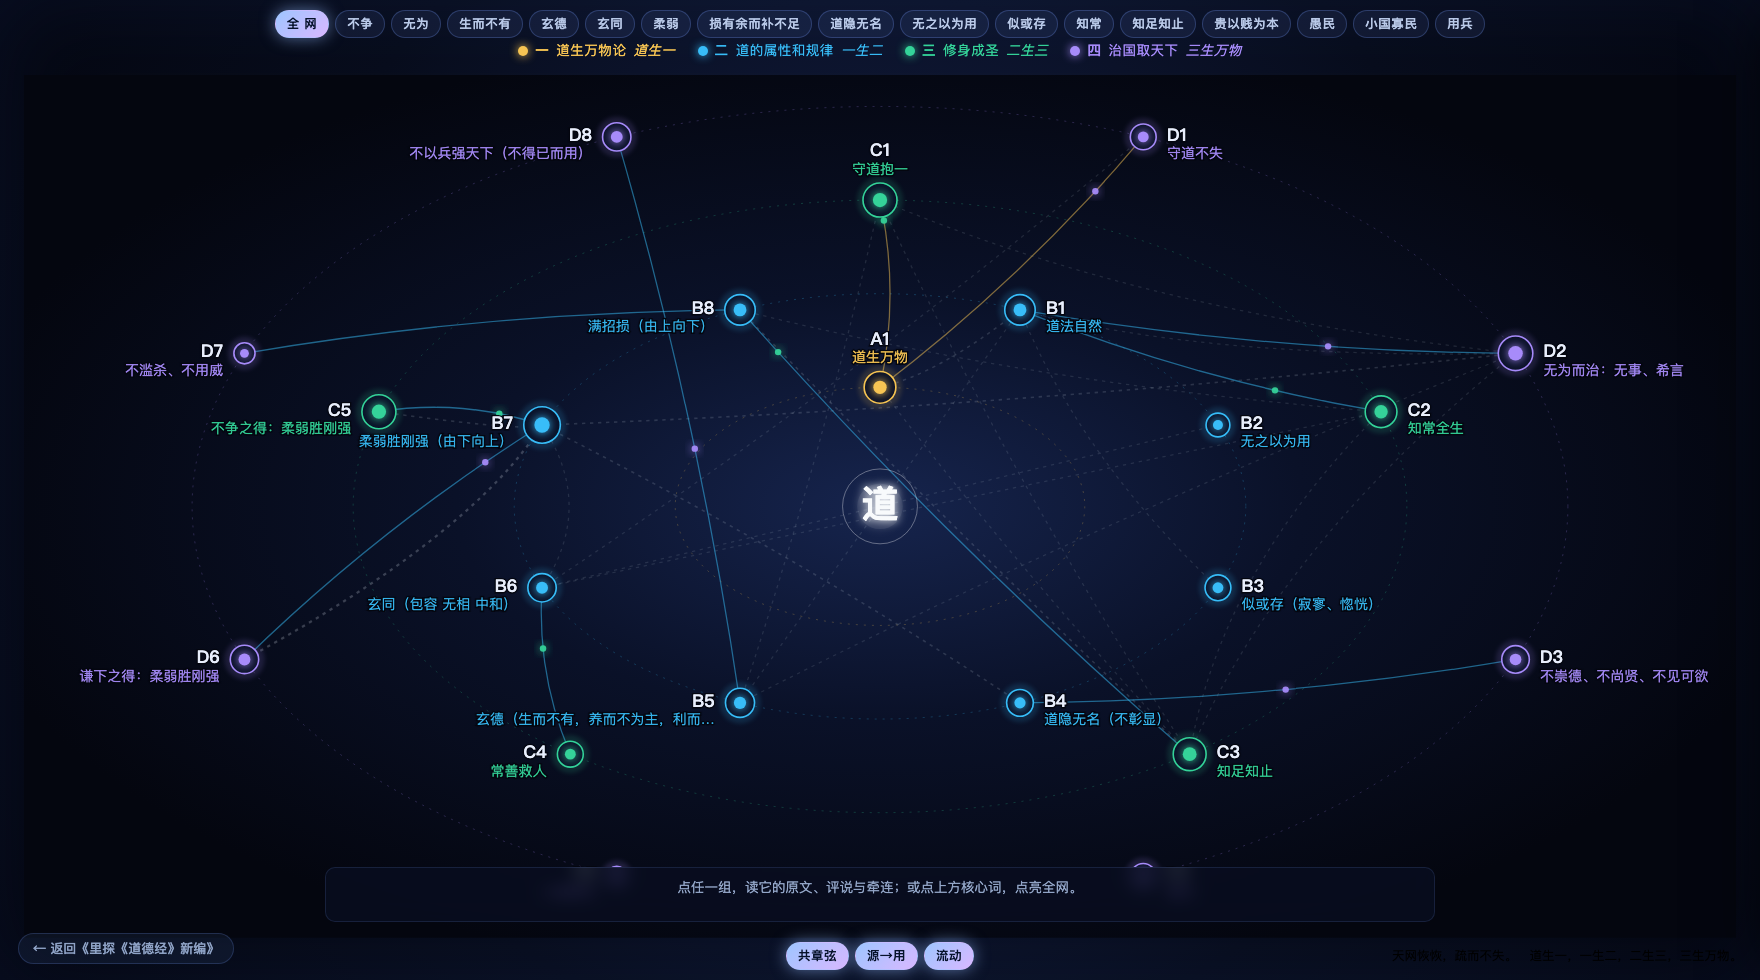
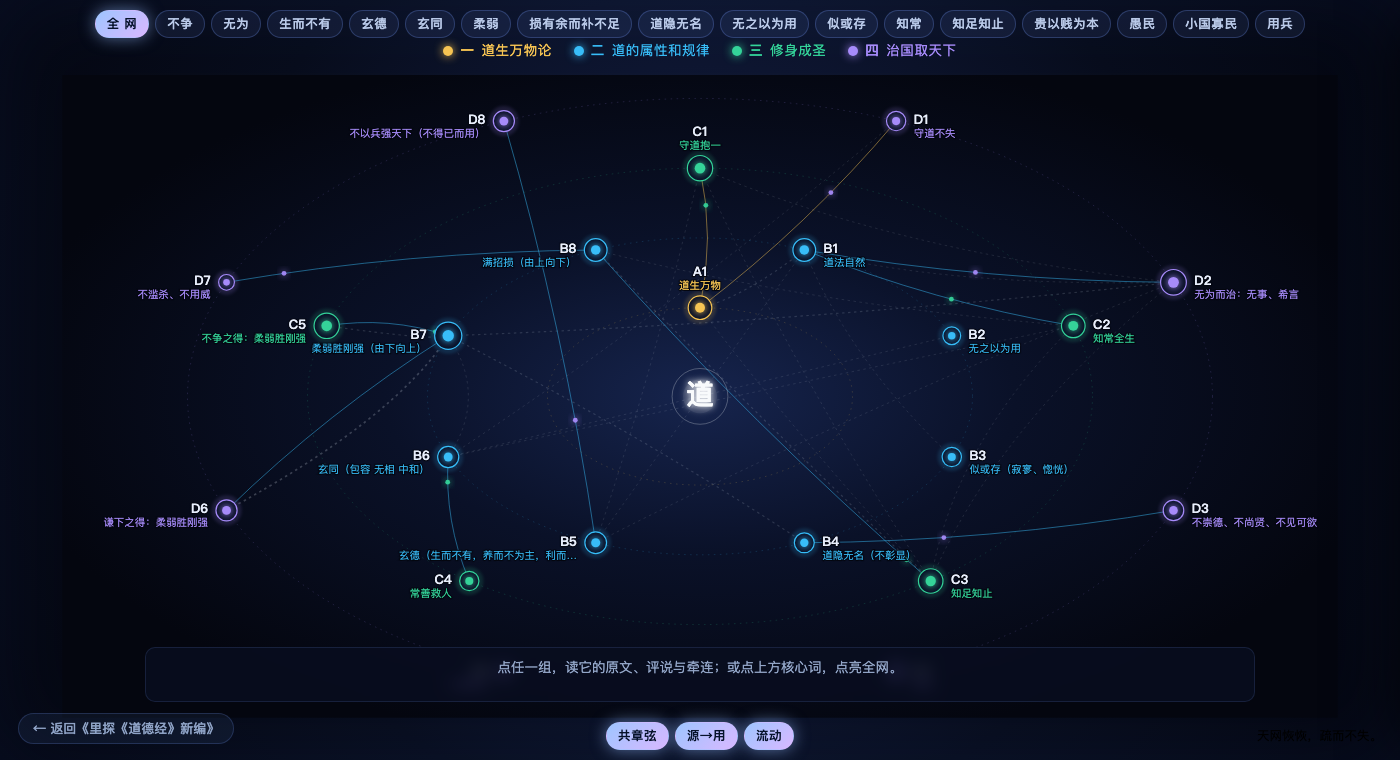
天道大网：修图例假等式、章号链接、加阅读页入口；修封面链接
① 图例去掉「道生一／一生二／二生三／三生万物」
- 该句讲生成序列（道→有无未分→有无既分→有无相和→万物），
  并非四部的编号；挂在环上是假等式，会误导为「一部=一、二部=二」
- 页面题引同步简化为「天网恢恢，疏而不失」

② 章号与新编链接改为 docsify 路由
- 02.md → index.html#/02
- 00.md → index.html#/00（含读取失败的兜底链接）
- 原因：wang.html 在 docsify 之外，点 .md 只会下到纯文本

③ index.html 新增「天道大网」悬浮入口
- 固定右上角，发光圆点呼应图心之「道」，悬停亮起
- 所有 docsify 页面（含封面）可见

④ 封面「天网恢恢」链接修正（用户手加，路径有误）
- /wang.html → wang.html（相对路径）
- 绝对路径在 GitHub Pages 子目录下会解析到站点根，导致 404
- 改用原生 <a target="_self">，避开 docsify 路由对 .html 的拦截

验证（headless 实渲染）
- C3 抽屉内章号链接实际 href = index.html#/24
- 封面链接渲染为 <a href="wang.html" target="_self">

diff --git a/_script/tiandao-net.js b/_script/tiandao-net.js
@@ -45,7 +45,7 @@
   }
   function verseHTML(line) {
     return esc(line).replace(/（([一二三四五六七八九十]+)）/g, function (m, cn) {
-      return '<a class="tdn-ch" href="' + pad(cn2num(cn)) + '.md" title="第' + cn + '章 · 原文注释评说">' + m + '</a>';
+      return '<a class="tdn-ch" href="index.html#/' + pad(cn2num(cn)) + '" title="第' + cn + '章 · 原文注释评说">' + m + '</a>';
     });
   }
 
@@ -228,7 +228,7 @@
         '<span class="tdn-badge" style="--c:' + c + '">' + n.dept + '部　' + SHORT[n.dept] + '</span>' +
         '<h3>' + esc(id) + '　' + esc(n.name) + '</h3>' +
         '<p class="tdn-meta">收录 <b>' + n.chs.length + '</b> 章 · <b>' + n.n + '</b> 句　' +
-        n.chs.map(function (x) { return '<a class="tdn-ch" href="' + pad(x) + '.md">' + pad(x) + '</a>'; })
+        n.chs.map(function (x) { return '<a class="tdn-ch" href="index.html#/' + pad(x) + '">' + pad(x) + '</a>'; })
           .join('<span class="tdn-sep">·</span>') + '</p>';
       body.innerHTML = '<p class="tdn-loading">正在读取原文…</p>';
       drawer.classList.add('open');
@@ -273,12 +273,12 @@
           });
           flush();
         } else {
-          vh = '<p class="tdn-none">未能读取 00.md，请直接看 <a href="00.md">新编</a>。</p>';
+          vh = '<p class="tdn-none">未能读取原文，请直接看 <a href="index.html#/00">新编</a>。</p>';
         }
         body.innerHTML =
           '<h4>原文 · 评说</h4>' + vh +
           relHTML +
-          '<a class="tdn-goto" href="00.md">在《里探《道德经》新编》中阅读 →</a>';
+          '<a class="tdn-goto" href="index.html#/00">在《里探《道德经》新编》中阅读 →</a>';
         Array.prototype.forEach.call(body.querySelectorAll('.tdn-jump'), function (b) {
           b.onclick = function () { open(b.getAttribute('data-id')); };
         });
@@ -341,7 +341,7 @@
     var legend = document.createElement('div');
     legend.className = 'tdn-legend';
     legend.innerHTML = ['一', '二', '三', '四'].map(function (d) {
-      return '<span style="--c:' + COLOR[d] + '"><b>' + d + '</b>' + SHORT[d] + '<i>' + SEQ[d] + '</i></span>';
+      return '<span style="--c:' + COLOR[d] + '"><b>' + d + '</b>' + SHORT[d] + '</span>';
     }).join('');
     host.insertBefore(bar, ctx.stage);
     host.insertBefore(legend, ctx.stage);

diff --git a/index.html b/index.html
@@ -9,10 +9,36 @@
   <meta name="viewport" content="width=device-width, initial-scale=1.0, minimum-scale=1.0">
   <link rel="icon" href="_media/favicon.jpg">
   <link rel="stylesheet" href="_style/docsify@5.min.css">
+  <style>
+    /* 天道大网入口 */
+    #tdn-entry {
+      position: fixed; top: 14px; right: 16px; z-index: 60;
+      display: inline-flex; align-items: center; gap: 8px;
+      padding: 8px 16px 8px 13px; border-radius: 999px; text-decoration: none;
+      font: 600 13.5px/1 -apple-system, "PingFang SC", "Microsoft YaHei", sans-serif;
+      letter-spacing: .06em; color: #cfe0ff;
+      background: rgba(12,20,44,.72); border: 1px solid rgba(120,160,255,.38);
+      backdrop-filter: blur(10px); box-shadow: 0 4px 22px -8px rgba(40,80,200,.9);
+      transition: all .22s;
+    }
+    #tdn-entry::before {
+      content: ''; width: 11px; height: 11px; border-radius: 50%;
+      background: radial-gradient(circle, #ffffff 0 22%, #7fb4ff 30%, #2a5bd7 100%);
+      box-shadow: 0 0 10px #6ea8ff;
+    }
+    #tdn-entry:hover {
+      color: #fff; border-color: rgba(150,190,255,.85);
+      background: rgba(30,50,110,.9); transform: translateY(-1px);
+      box-shadow: 0 8px 26px -8px rgba(70,120,255,1);
+    }
+    @media (max-width: 640px) { #tdn-entry { font-size: 12px; padding: 6px 12px 6px 10px; } }
+  </style>
 </head>
 
 <body>
   <div id="app"></div>
+
+  <a id="tdn-entry" href="wang.html" title="天道大网：22 组、源流、共章相连">天道大网</a>
   <script>
     window.$docsify = {
       name: '里探《道德经》新编',

diff --git a/wang.html b/wang.html
@@ -5,7 +5,7 @@
   <meta charset="UTF-8">
   <title>天道大网 · 里探《道德经》新编</title>
   <meta name="viewport" content="width=device-width, initial-scale=1.0">
-  <meta name="description" content="道德经八十一章关系图：道生一，一生二，二生三，三生万物">
+  <meta name="description" content="《道德经》八十一章关系图：22 组、源流、共章相连">
   <link rel="icon" href="_media/favicon.jpg">
   <link rel="stylesheet" href="_style/tiandao-net.css">
 </head>
@@ -14,7 +14,7 @@
   <div class="tdn-wrap" id="tiandao-net"></div>
 
   <a class="tdn-back" href="index.html#/00">← 返回《里探《道德经》新编》</a>
-  <p class="tdn-quote">天网恢恢，疏而不失。　道生一，一生二，二生三，三生万物。</p>
+  <p class="tdn-quote">天网恢恢，疏而不失。</p>
 
   <script src="_script/tiandao-net.js"></script>
 </body>

diff --git a/_coverpage.md b/_coverpage.md
@@ -8,4 +8,4 @@
 - 分享给喜欢《道德经》的朋友们
 - 关注里探。与你共同阅读思考进步
 
-[开始阅读](/99.md)
+[开始阅读](/99.md)｜<a href="wang.html" target="_self">天网恢恢</a>
